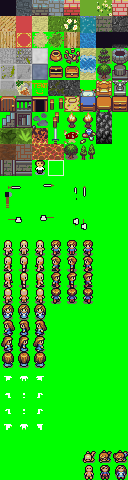
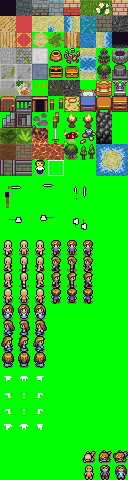
Added beach biomes, more work on them to come.

diff --git a/maps.c b/maps.c
@@ -354,6 +354,206 @@ view map_farm() {
 	return me;
 }
 
+view map_beachbottom() {
+	view me={
+		{
+			{0,0,0,0,0,0,0,0,0,29},
+			{0,0,0,0,0,0,0,0,0,29},
+			{0,0,0,0,0,0,0,0,0,29},
+			{0,0,0,0,0,0,0,0,0,29},
+			{0,0,0,0,0,0,0,0,0,29},
+			{0,0,0,0,0,0,0,0,0,29},
+			{0,0,0,0,0,0,0,0,0,29},
+			{0,0,0,0,0,0,0,0,0,29},
+			{0,0,0,0,0,0,0,0,0,29},
+			{0,0,0,0,0,0,0,0,0,29},
+			{0,0,0,0,0,0,0,0,0,29},
+			{0,0,0,0,0,0,0,0,0,29},
+			{0,0,0,0,0,0,0,0,0,29},
+			{0,0,0,0,0,0,0,0,0,29},
+			{0,0,0,0,0,0,0,0,0,29}
+
+		},
+		{
+			{0,0,0,0,0,0,0,0,0,0},
+			{0,0,0,0,0,0,0,0,0,0},
+			{0,0,0,0,0,0,0,0,0,0},
+			{0,0,0,0,0,0,0,0,0,0},
+			{0,0,0,0,0,0,0,0,0,0},
+			{0,0,0,0,0,0,0,0,0,0},
+			{0,0,0,0,0,0,0,0,0,0},
+			{0,0,0,0,0,0,0,0,0,0},
+			{0,0,0,0,0,0,0,0,0,0},
+			{0,0,0,0,0,0,0,0,0,0},
+			{0,0,0,0,0,0,0,0,0,0},
+			{0,0,0,0,0,0,0,0,0,0},
+			{0,0,0,0,0,0,0,0,0,0},
+			{0,0,0,0,0,0,0,0,0,0},
+			{0,0,0,0,0,0,0,0,0,0}
+
+		}
+	};
+	return me;
+}
+
+view map_beachtop() {
+	view me={
+		{
+			{37,0,0,0,0,0,0,0,0,0},
+			{37,0,0,0,0,0,0,0,0,0},
+			{37,0,0,0,0,0,0,0,0,0},
+			{37,0,0,0,0,0,0,0,0,0},
+			{37,0,0,0,0,0,0,0,0,0},
+			{37,0,0,0,0,0,0,0,0,0},
+			{37,0,0,0,0,0,0,0,0,0},
+			{37,0,0,0,0,0,0,0,0,0},
+			{37,0,0,0,0,0,0,0,0,0},
+			{37,0,0,0,0,0,0,0,0,0},
+			{37,0,0,0,0,0,0,0,0,0},
+			{37,0,0,0,0,0,0,0,0,0},
+			{37,0,0,0,0,0,0,0,0,0},
+			{37,0,0,0,0,0,0,0,0,0},
+			{37,0,0,0,0,0,0,0,0,0}
+
+		},
+		{
+			{0,0,0,0,0,0,0,0,0,0},
+			{0,0,0,0,0,0,0,0,0,0},
+			{0,0,0,0,0,0,0,0,0,0},
+			{0,0,0,0,0,0,0,0,0,0},
+			{0,0,0,0,0,0,0,0,0,0},
+			{0,0,0,0,0,0,0,0,0,0},
+			{0,0,0,0,0,0,0,0,0,0},
+			{0,0,0,0,0,0,0,0,0,0},
+			{0,0,0,0,0,0,0,0,0,0},
+			{0,0,0,0,0,0,0,0,0,0},
+			{0,0,0,0,0,0,0,0,0,0},
+			{0,0,0,0,0,0,0,0,0,0},
+			{0,0,0,0,0,0,0,0,0,0},
+			{0,0,0,0,0,0,0,0,0,0},
+			{0,0,0,0,0,0,0,0,0,0}
+
+		}
+	};
+	return me;
+}
+
+view map_beachleft() {
+	view me={
+		{
+			{12,12,12,12,12,12,12,12,12,12},
+			{0,0,0,0,0,0,0,0,0,0},
+			{0,0,0,0,0,0,0,0,0,0},
+			{0,0,0,0,0,0,0,0,0,0},
+			{0,0,0,0,0,0,0,0,0,0},
+			{0,0,0,0,0,0,0,0,0,0},
+			{0,0,0,0,0,0,0,0,0,0},
+			{0,0,0,0,0,0,0,0,0,0},
+			{0,0,0,0,0,0,0,0,0,0},
+			{0,0,0,0,0,0,0,0,0,0},
+			{0,0,0,0,0,0,0,0,0,0},
+			{0,0,0,0,0,0,0,0,0,0},
+			{0,0,0,0,0,0,0,0,0,0},
+			{0,0,0,0,0,0,0,0,0,0},
+			{0,0,0,0,0,0,0,0,0,0}
+
+		},
+		{
+			{0,0,0,0,0,0,0,0,0,0},
+			{0,0,0,0,0,0,0,0,0,0},
+			{0,0,0,0,0,0,0,0,0,0},
+			{0,0,0,0,0,0,0,0,0,0},
+			{0,0,0,0,0,0,0,0,0,0},
+			{0,0,0,0,0,0,0,0,0,0},
+			{0,0,0,0,0,0,0,0,0,0},
+			{0,0,0,0,0,0,0,0,0,0},
+			{0,0,0,0,0,0,0,0,0,0},
+			{0,0,0,0,0,0,0,0,0,0},
+			{0,0,0,0,0,0,0,0,0,0},
+			{0,0,0,0,0,0,0,0,0,0},
+			{0,0,0,0,0,0,0,0,0,0},
+			{0,0,0,0,0,0,0,0,0,0},
+			{0,0,0,0,0,0,0,0,0,0}
+
+		}
+	};
+	return me;
+}
+
+view map_beachright() {
+	view me={
+		{
+			{0,0,0,0,0,0,0,0,0,0},
+			{0,0,0,0,0,0,0,0,0,0},
+			{0,0,0,0,0,0,0,0,0,0},
+			{0,0,0,0,0,0,0,0,0,0},
+			{0,0,0,0,0,0,0,0,0,0},
+			{0,0,0,0,0,0,0,0,0,0},
+			{0,0,0,0,0,0,0,0,0,0},
+			{0,0,0,0,0,0,0,0,0,0},
+			{0,0,0,0,0,0,0,0,0,0},
+			{0,0,0,0,0,0,0,0,0,0},
+			{0,0,0,0,0,0,0,0,0,0},
+			{0,0,0,0,0,0,0,0,0,0},
+			{0,0,0,0,0,0,0,0,0,0},
+			{0,0,0,0,0,0,0,0,0,0},
+			{22,22,22,22,22,22,22,22,22,22}
+
+		},
+		{
+			{0,0,0,0,0,0,0,0,0,0},
+			{0,0,0,0,0,0,0,0,0,0},
+			{0,0,0,0,0,0,0,0,0,0},
+			{0,0,0,0,0,0,0,0,0,0},
+			{0,0,0,0,0,0,0,0,0,0},
+			{0,0,0,0,0,0,0,0,0,0},
+			{0,0,0,0,0,0,0,0,0,0},
+			{0,0,0,0,0,0,0,0,0,0},
+			{0,0,0,0,0,0,0,0,0,0},
+			{0,0,0,0,0,0,0,0,0,0},
+			{0,0,0,0,0,0,0,0,0,0},
+			{0,0,0,0,0,0,0,0,0,0},
+			{0,0,0,0,0,0,0,0,0,0},
+			{0,0,0,0,0,0,0,0,0,0},
+			{0,0,0,0,0,0,0,0,0,0}
+
+		}
+	};
+	return me;
+}
+
+view map_beach(unsigned int xPos, unsigned int yPos) {
+	view me;
+	memset(&me,0,sizeof me);
+	memset(&me.screen,10,sizeof me.screen);
+	memset(&me.layers,0,sizeof me.layers);
+	char up=0;
+	char down=0;
+	char left=0;
+	char right=0;
+	if(DIST(xPos,yPos-1,400,400)>40804){
+		me=blendMap(me,map_beachbottom());
+		down=1;
+	}
+	if(DIST(xPos,yPos+1,400,400)>40804) {
+		me=blendMap(me,map_beachtop());
+		up=1;
+	}
+	if(DIST(xPos-1,yPos,400,400)>40804) {
+		me=blendMap(me,map_beachright());
+		right=1;
+	}
+	if(DIST(xPos+1,yPos,400,400)>40804) {
+		me=blendMap(me,map_beachleft());
+		left=1;
+	}
+	if(up&&left) me.screen[0][0]=78;
+	if(down&&left) me.screen[0][9]=86;
+	if(up&&right) me.screen[14][0]=79;
+	if(down&&right) me.screen[14][9]=87;
+	return me;
+}
+
 view map_ridge() {
 	view me={
 		{
@@ -372,8 +572,6 @@ view map_ridge() {
 			{5,70,0,0,0,0,0,0,0,0},
 			{5,70,0,0,0,0,0,0,0,0},
 			{5,5,0,0,0,0,0,0,0,0}
-
-
 		},
 		{
 			{0,0,0,0,0,0,0,0,0,0},

diff --git a/main.h b/main.h
@@ -31,6 +31,7 @@
 							_V=x;\
 							p=malloc(sizeof _V);\
 							*p=_V
+#define DIST(x1,y1,x2,y2) ((x2-x1)*(x2-x1)+(y2-y1)*(y2-y1))
 #define TITLE "Drip"
 
 
@@ -118,6 +119,14 @@ typedef struct collisionWrap {
 	unsigned char layers[SW*TS][SH*TS];	
 } collisionWrap;
 
+typedef struct axiom {
+	int x1;
+	int x2;
+	int y1;
+	int y2;
+	view(*loader)(unsigned int xIn, unsigned int yIn);
+} axiom;
+
 typedef struct faction { //Faction areas are circular.
 	unsigned int centreX;
 	unsigned int centreY;
@@ -152,12 +161,13 @@ unsigned char speaker; //Holds entity number which started conversation.
 
 view tilewrapper[3][3]; //Holds all of the visible view structs
 collisionWrap cwrapper[3][3]; //Holds the corresponding collision data
+axiom axioms[16];
 uint16_t flags=0;
 
 unsigned char lastSlot=0;
 
-uint16_t sX = 2; //View struct currently occupied by the player.
-uint16_t sY = 2; //^
+uint16_t sX = 300; //View struct currently occupied by the player.
+uint16_t sY = 300; //^
 unsigned char scroll = 0; //Triggers a screen transition on the next frame.
 
 unsigned char pMaxHealth=100;

diff --git a/worldgen.c b/worldgen.c
@@ -1,3 +1,7 @@
+void axiomLoad() {
+	
+}
+
 void entFetch(unsigned int xIn, unsigned int yIn) {
 	uint32_t screenNum=0;
 	screenNum |= sX+(xIn-1);
@@ -66,12 +70,16 @@ void worldgen(view* in, uint16_t xPos, uint16_t yPos) {
 		return;
 	}*/
 
-	int diff=intersect(xPos, yPos);
-	if(!diff) in->room=1;
-	printf("Difference: %d\n", diff);
-	if(xPos<400 && yPos<400) {
-			*in=map_grasslandBase(xPos,yPos);
-	} else memset(in,0,sizeof *in);
+	//printf("Difference: %d\n", diff);
+	printf("Distance: %u\n",DIST(xPos,yPos,400,400));
+	if(DIST(xPos,yPos,400,400)<40000) {
+		*in=map_grasslandBase(xPos,yPos);
+	} else if(DIST(xPos,yPos,400,400)<40804){
+		*in=map_beach(xPos,yPos);
+	} else {
+		memset(&in->screen,21,sizeof in->screen);
+		memset(&in->layers,1,sizeof in->layers);
+	}
 	in->spawnFunc=NULL;
 	in->flag=1;
 }

diff --git a/entities.c b/entities.c
@@ -1,16 +1,4 @@
-/*ENTITY FIELDS:
-
-unsigned int x; //X position
-unsigned int y; //Y position
-unsigned char xSub; //Hitbox width (it's subtractive from tile width)
-unsigned char ySub; //Hitbox height (ditto)
-unsigned int behaviourId; //Pretty self explanatory.
-uint16_t health;
-uint32_t status; //I'd suggest bit packing this.
-unsigned char inventory[INVLIMIT];
-unsigned char frame; //Current frame.
-
-IF YOU DON'T FILL ALL OF THESE, YOU'LL GET UNDEFINED BEHAVIOUR.*/
+//Make sure everything is initialised so you don't get UB, that goes for you in particular, Merlin.
 
 entity ent_playerM() { //Male
 	entity me;

diff --git a/entityLogic.c b/entityLogic.c
@@ -8,7 +8,7 @@ void playerBehaviour(int i) {
 		return;
 	}
 
-	for (int j=0; j<TS/8; j++) { //number of pixels to move per frame.
+	for (int j=0; j<128; j++) { //number of pixels to move per frame.
 		if (entSet[i].status[3]==0 && !swordOut && !dialogueOut) {	
 			if (keyboard[SDL_SCANCODE_RIGHT]) {
 				moveX(&entSet[i], 1);

diff --git a/main.c b/main.c
@@ -627,6 +627,7 @@ char collisionCheck(int x, int y) { //Collision detection between map layer and 
 	int wrapperY=(y+TS*SH)/(TS*SH);
 	int microX=(x+TS*SW)%(TS*SW);
 	int microY=(y+TS*SH)%(TS*SH);
+	return 0;
 	if(wrapperX>2 || wrapperY>2) return 1;
 	//assert(wrapperX<3);
 	if(microX==0 && microY==0 ) return 0;
